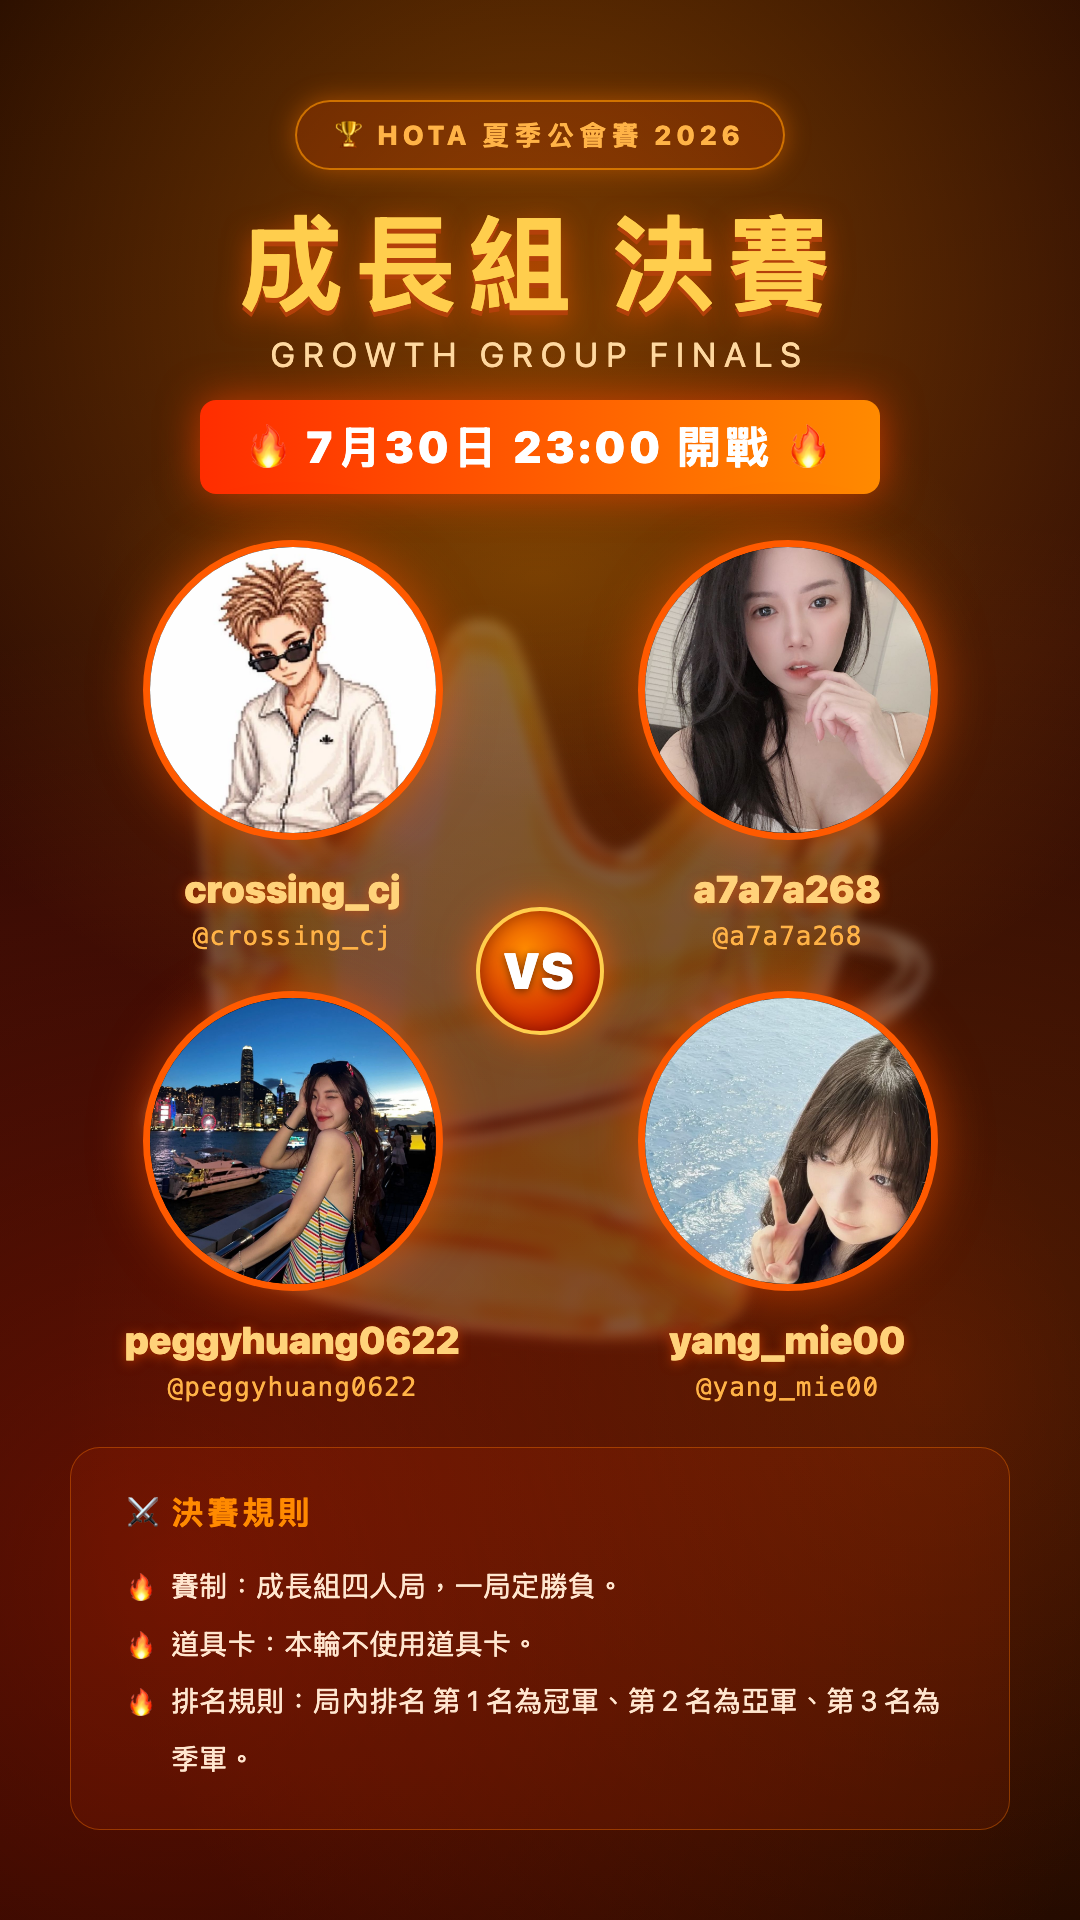
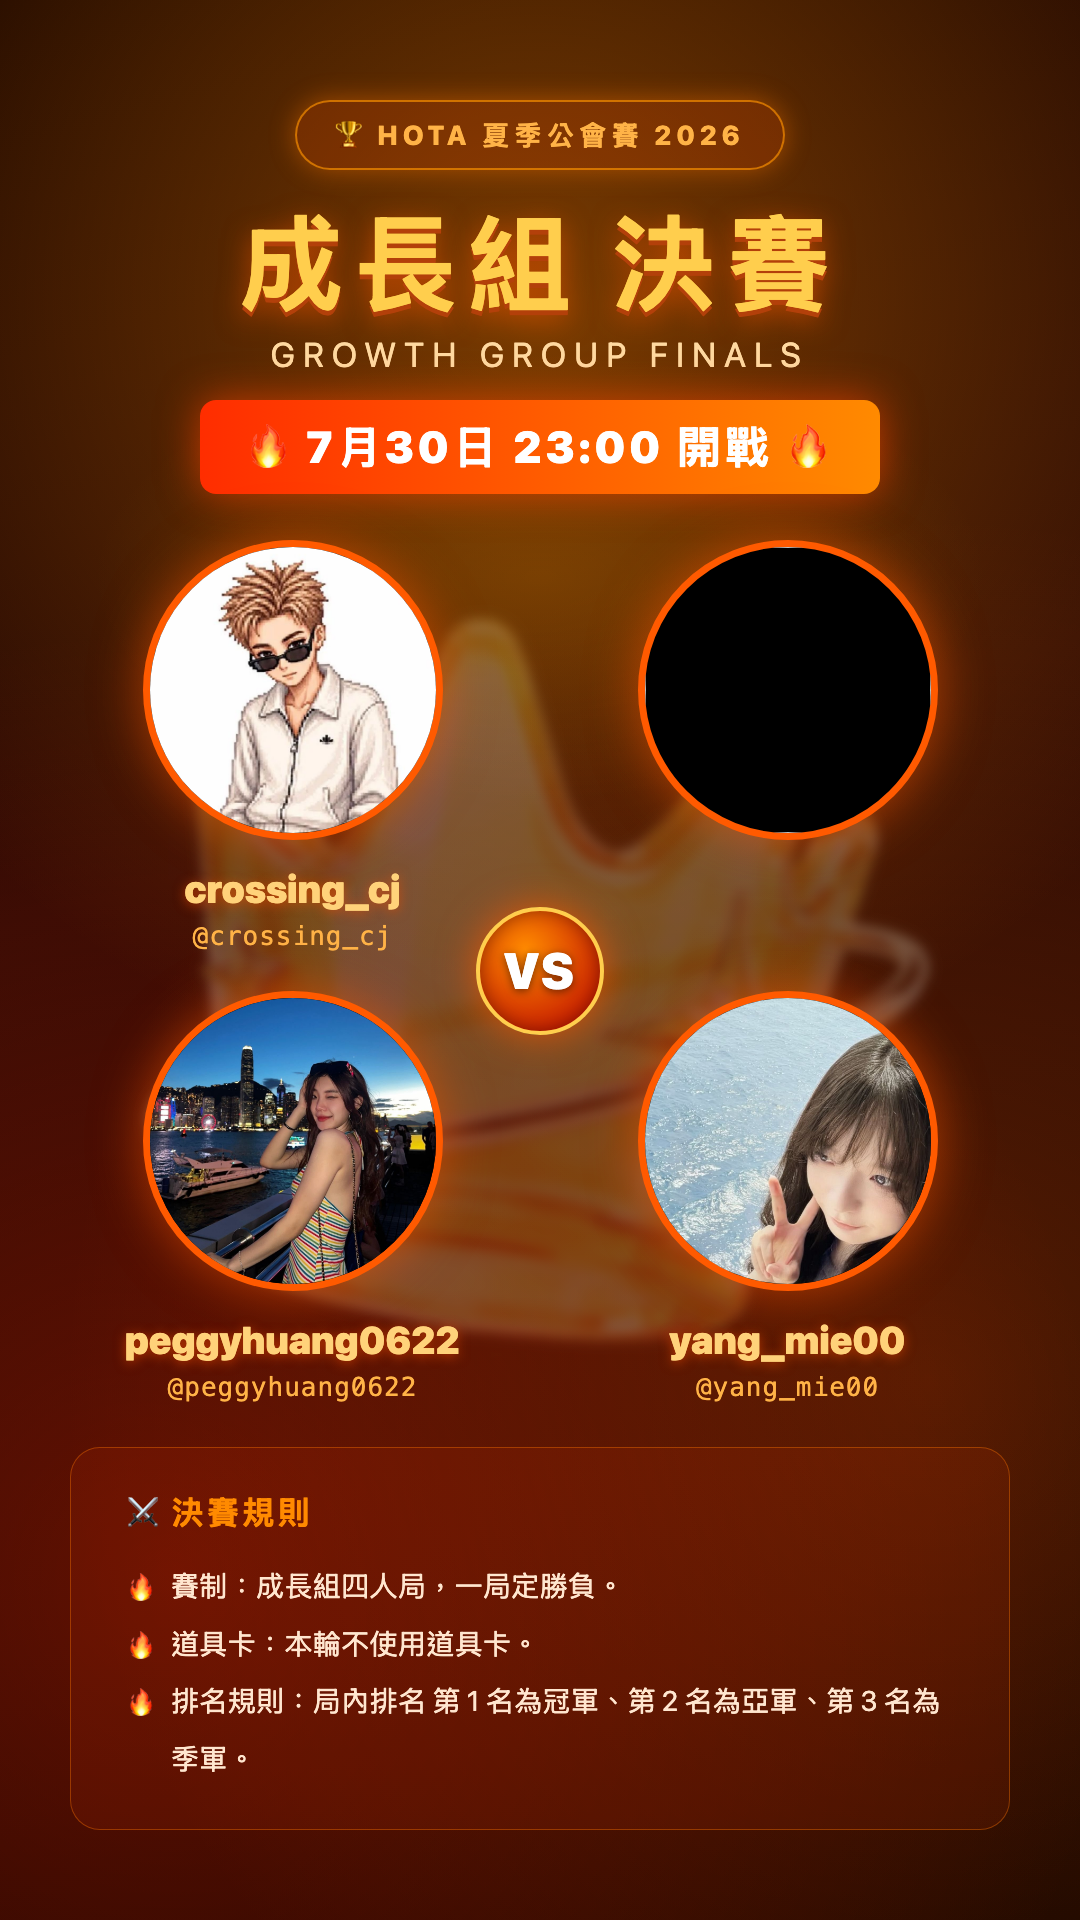
成長組四人海報：a7a7a268 更換為 nnnnn66666nnnnn，重新生成 4 張輪替主位海報

Changed region(s): [[0.5806, 0.2812, 0.8861, 0.5]]

diff --git a/growth_poster.html b/growth_poster.html
@@ -164,7 +164,7 @@ const PLAYERS = {
   crossing_cj:   { name: 'crossing_cj',   img: 'assets/crossing_cj.png' },
   yang_mie00:    { name: 'yang_mie00',    img: 'assets/yang_mie00.jpg' }
 };
-const ORDER = ['a7a7a268','peggyhuang0622','crossing_cj','yang_mie00'];
+const ORDER = ['nnnnn66666nnnnn','peggyhuang0622','crossing_cj','yang_mie00'];
 function setPlayer(idx, id){
   const p = PLAYERS[id];
   if(!p){ console.warn('unknown player', id); return; }
